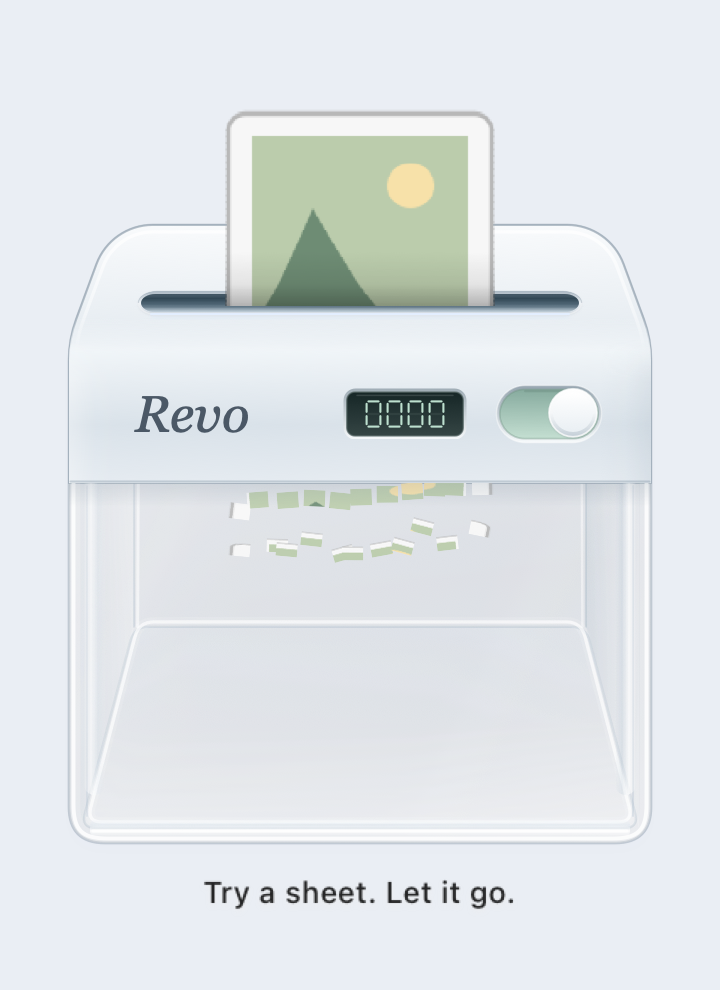
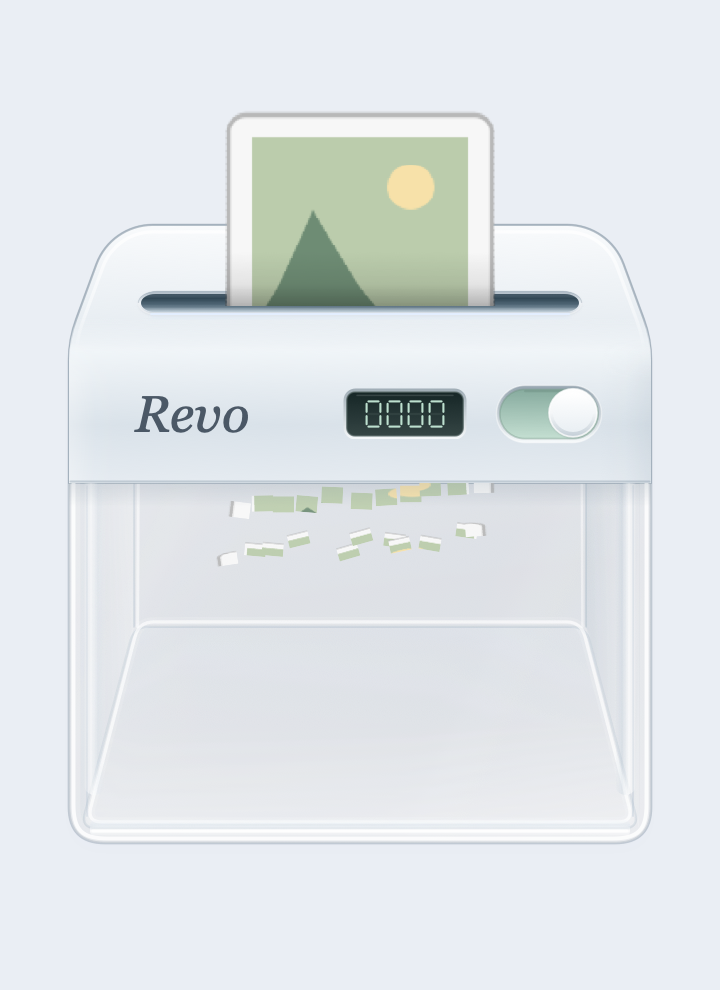
Remove captions from normal file feeding and shredding

Changed region(s): [[0.3361, 0.4848, 0.6722, 0.5758], [0.275, 0.8788, 0.7028, 0.9394]]

diff --git a/Sources/Revo/RevoView.swift b/Sources/Revo/RevoView.swift
@@ -237,7 +237,7 @@ final class RevoView: NSView {
             spring(machine, key: "transform.translation.y", from: 3, to: 0)
         }
         updatePowerPresentation()
-        if state == .idle { messageVersion += 1; caption.opacity = 0 }
+        if state == .idle { hideMessage() }
     }
 
     private func updatePowerPresentation() {
@@ -285,6 +285,12 @@ final class RevoView: NSView {
             }
         }
     }
+    private func hideMessage() {
+        messageVersion += 1
+        currentMessage = nil
+        caption.string = nil
+        caption.opacity = 0
+    }
     private func setState(_ next: State) {
         state = next
         updatePowerPresentation()
@@ -312,7 +318,7 @@ final class RevoView: NSView {
         let operation = dragOperation(sender); guard !operation.isEmpty else { return [] }
         dragActive = true
         if state != .working { setState(.ready); spring(machine, key: "transform.translation.y", from: 0, to: 3) }
-        showMessage(.releaseToTrash, urls(sender).count, persistent: true)
+        hideMessage()
         return operation
     }
     override func draggingUpdated(_ sender: NSDraggingInfo) -> NSDragOperation { dragOperation(sender) }
@@ -347,7 +353,7 @@ final class RevoView: NSView {
         guard state != .working, let job = queue.takeNext() else { return }
         setState(.working)
         spring(machine, key: "transform.translation.y", from: 3, to: 0)
-        showMessage(job.demo ? .demoFeed : .movingToTrash, persistent: true)
+        hideMessage()
         // Build the preview before recycling, while the original still exists.
         let sprite = PaperSprite.make(for: job.url, style: job.style)
         if job.demo { animate(job, image: sprite); return }
@@ -435,7 +441,7 @@ final class RevoView: NSView {
         play(.finish, volume: 0.12)
         setState(.idle)
         if !reducedMotion { spring(machine, key: "transform.translation.y", from: -1.2, to: 0) }
-        showMessage(job.demo ? .demoFinished : .recycleFinished)
+        hideMessage()
         if !queue.isEmpty { next() }
         else if dragActive && isPoweredOn { setState(.ready) }
     }

diff --git a/README.md b/README.md
@@ -45,6 +45,8 @@ Open Revo from Applications, or open `build/Revo.app` when building locally. Rev
 
 Turn the switch on before dropping files. When off, Revo rejects drops and closes the inlet shutter. Power is never remembered across launches. Switching off during a batch discards all waiting jobs; the one file operation already in progress finishes. Turning it on again does not resume discarded jobs. Drag those files in again if you still want to recycle them.
 
+Normal drag, feeding, shredding, and completion use visual and sound feedback without a bottom caption. Demonstrations are also caption-free. Safety warnings and operation failures still provide feedback.
+
 | Gesture | Action |
 | --- | --- |
 | Turn the power switch on | Open the inlet and enable file drops, with a soft mechanical click |
